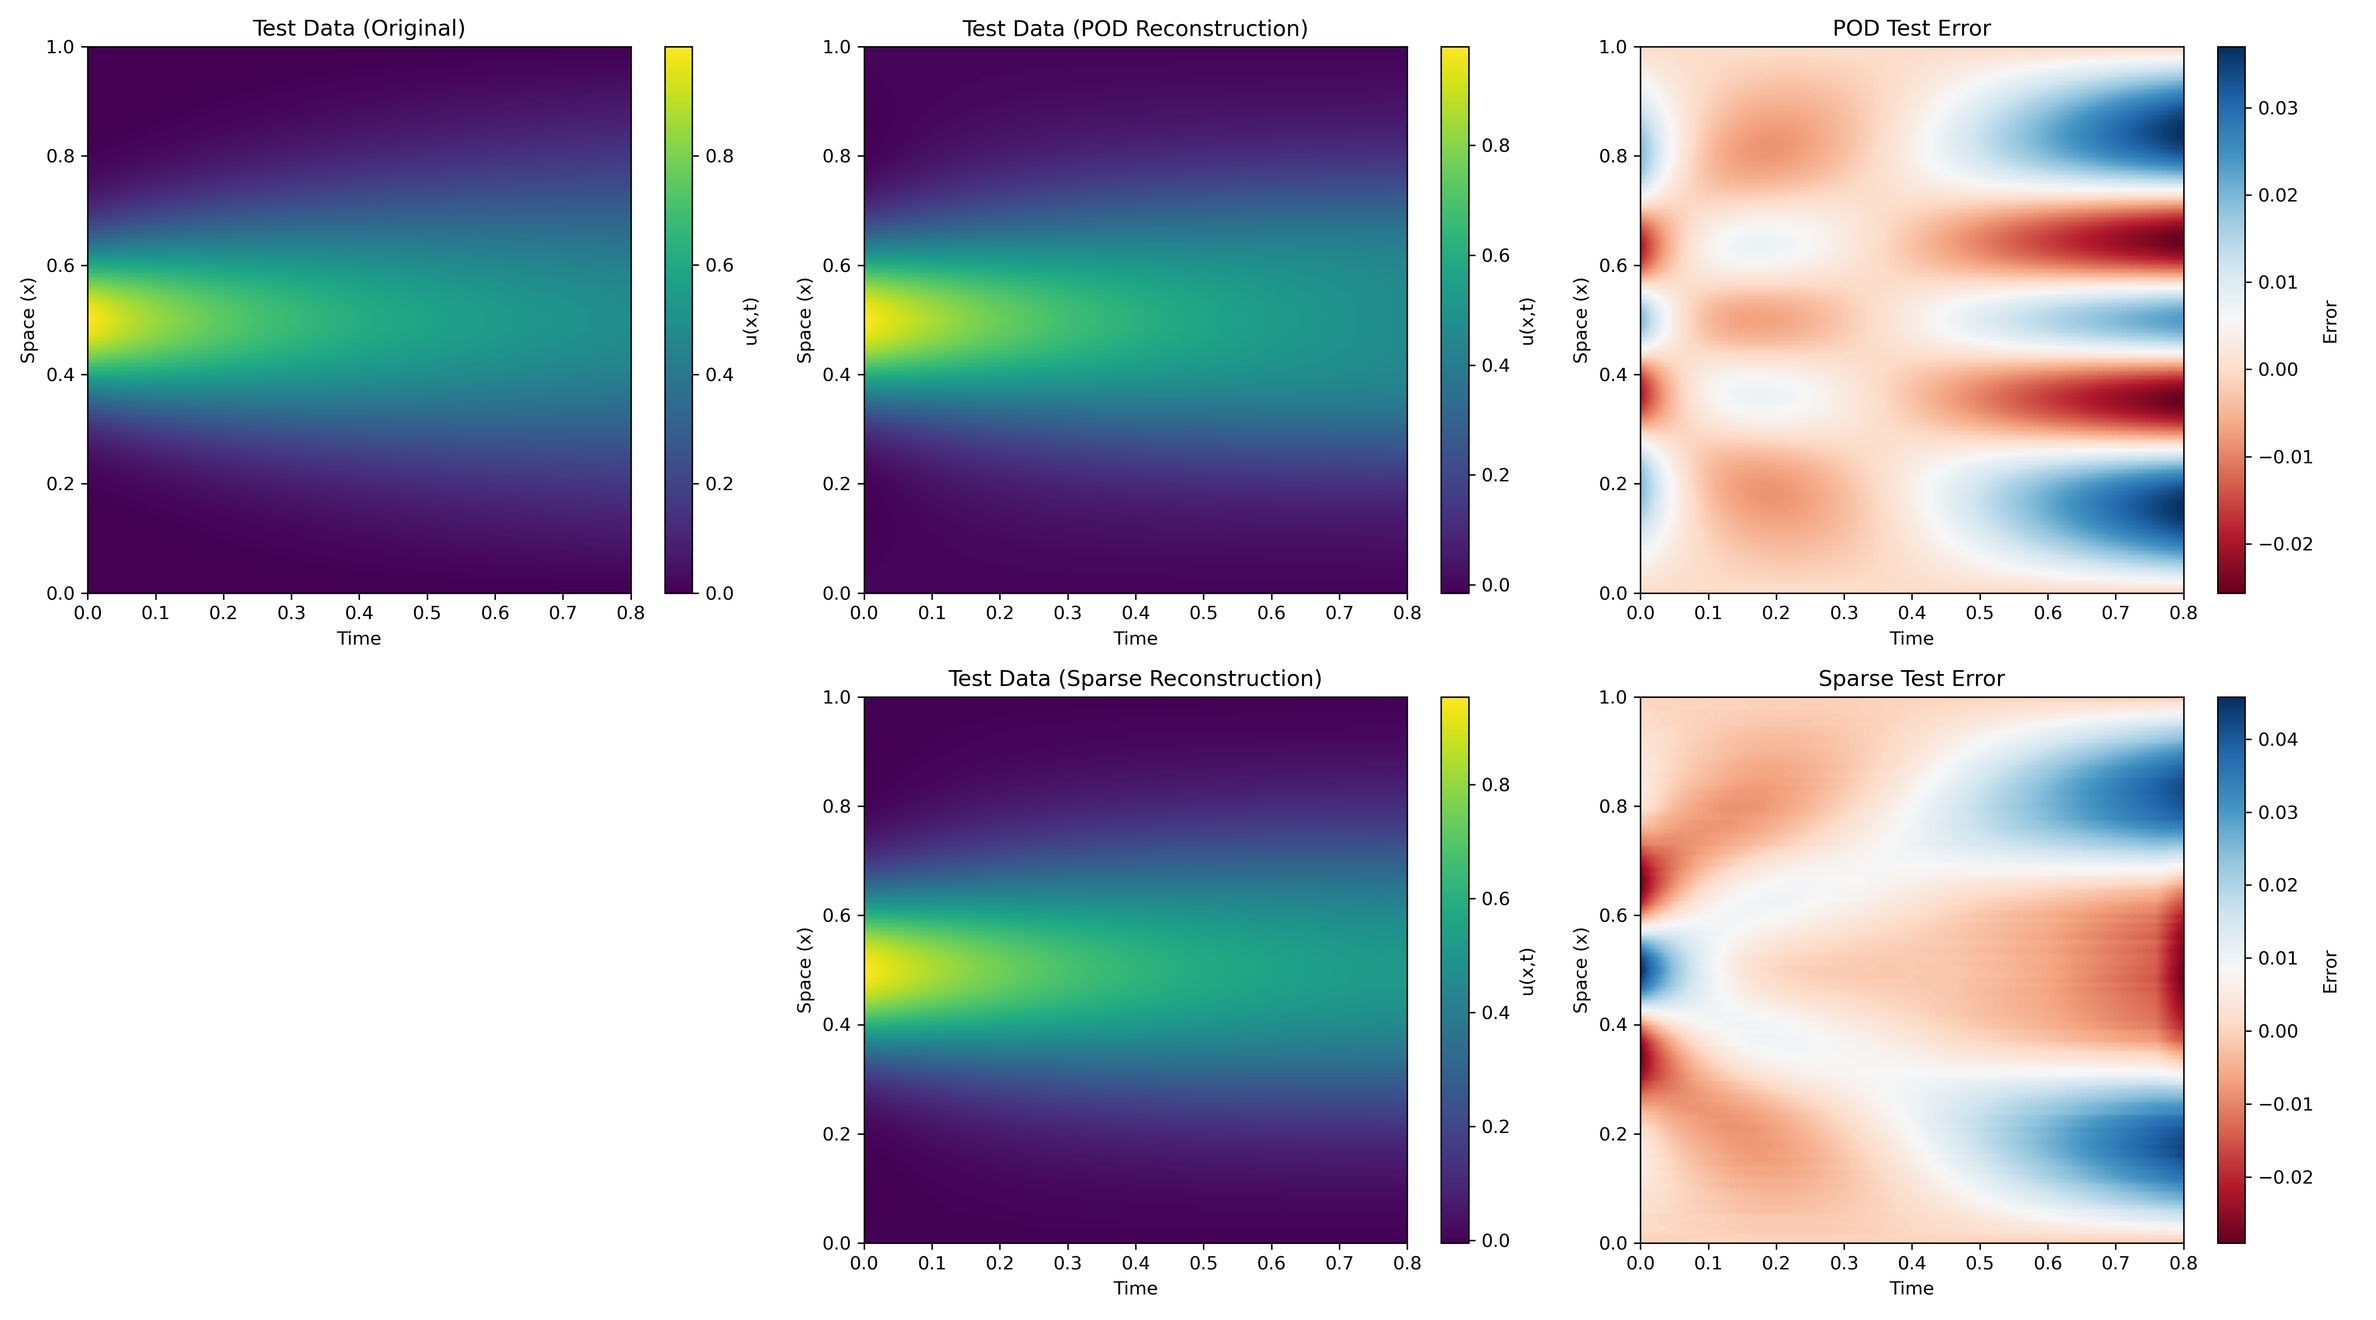
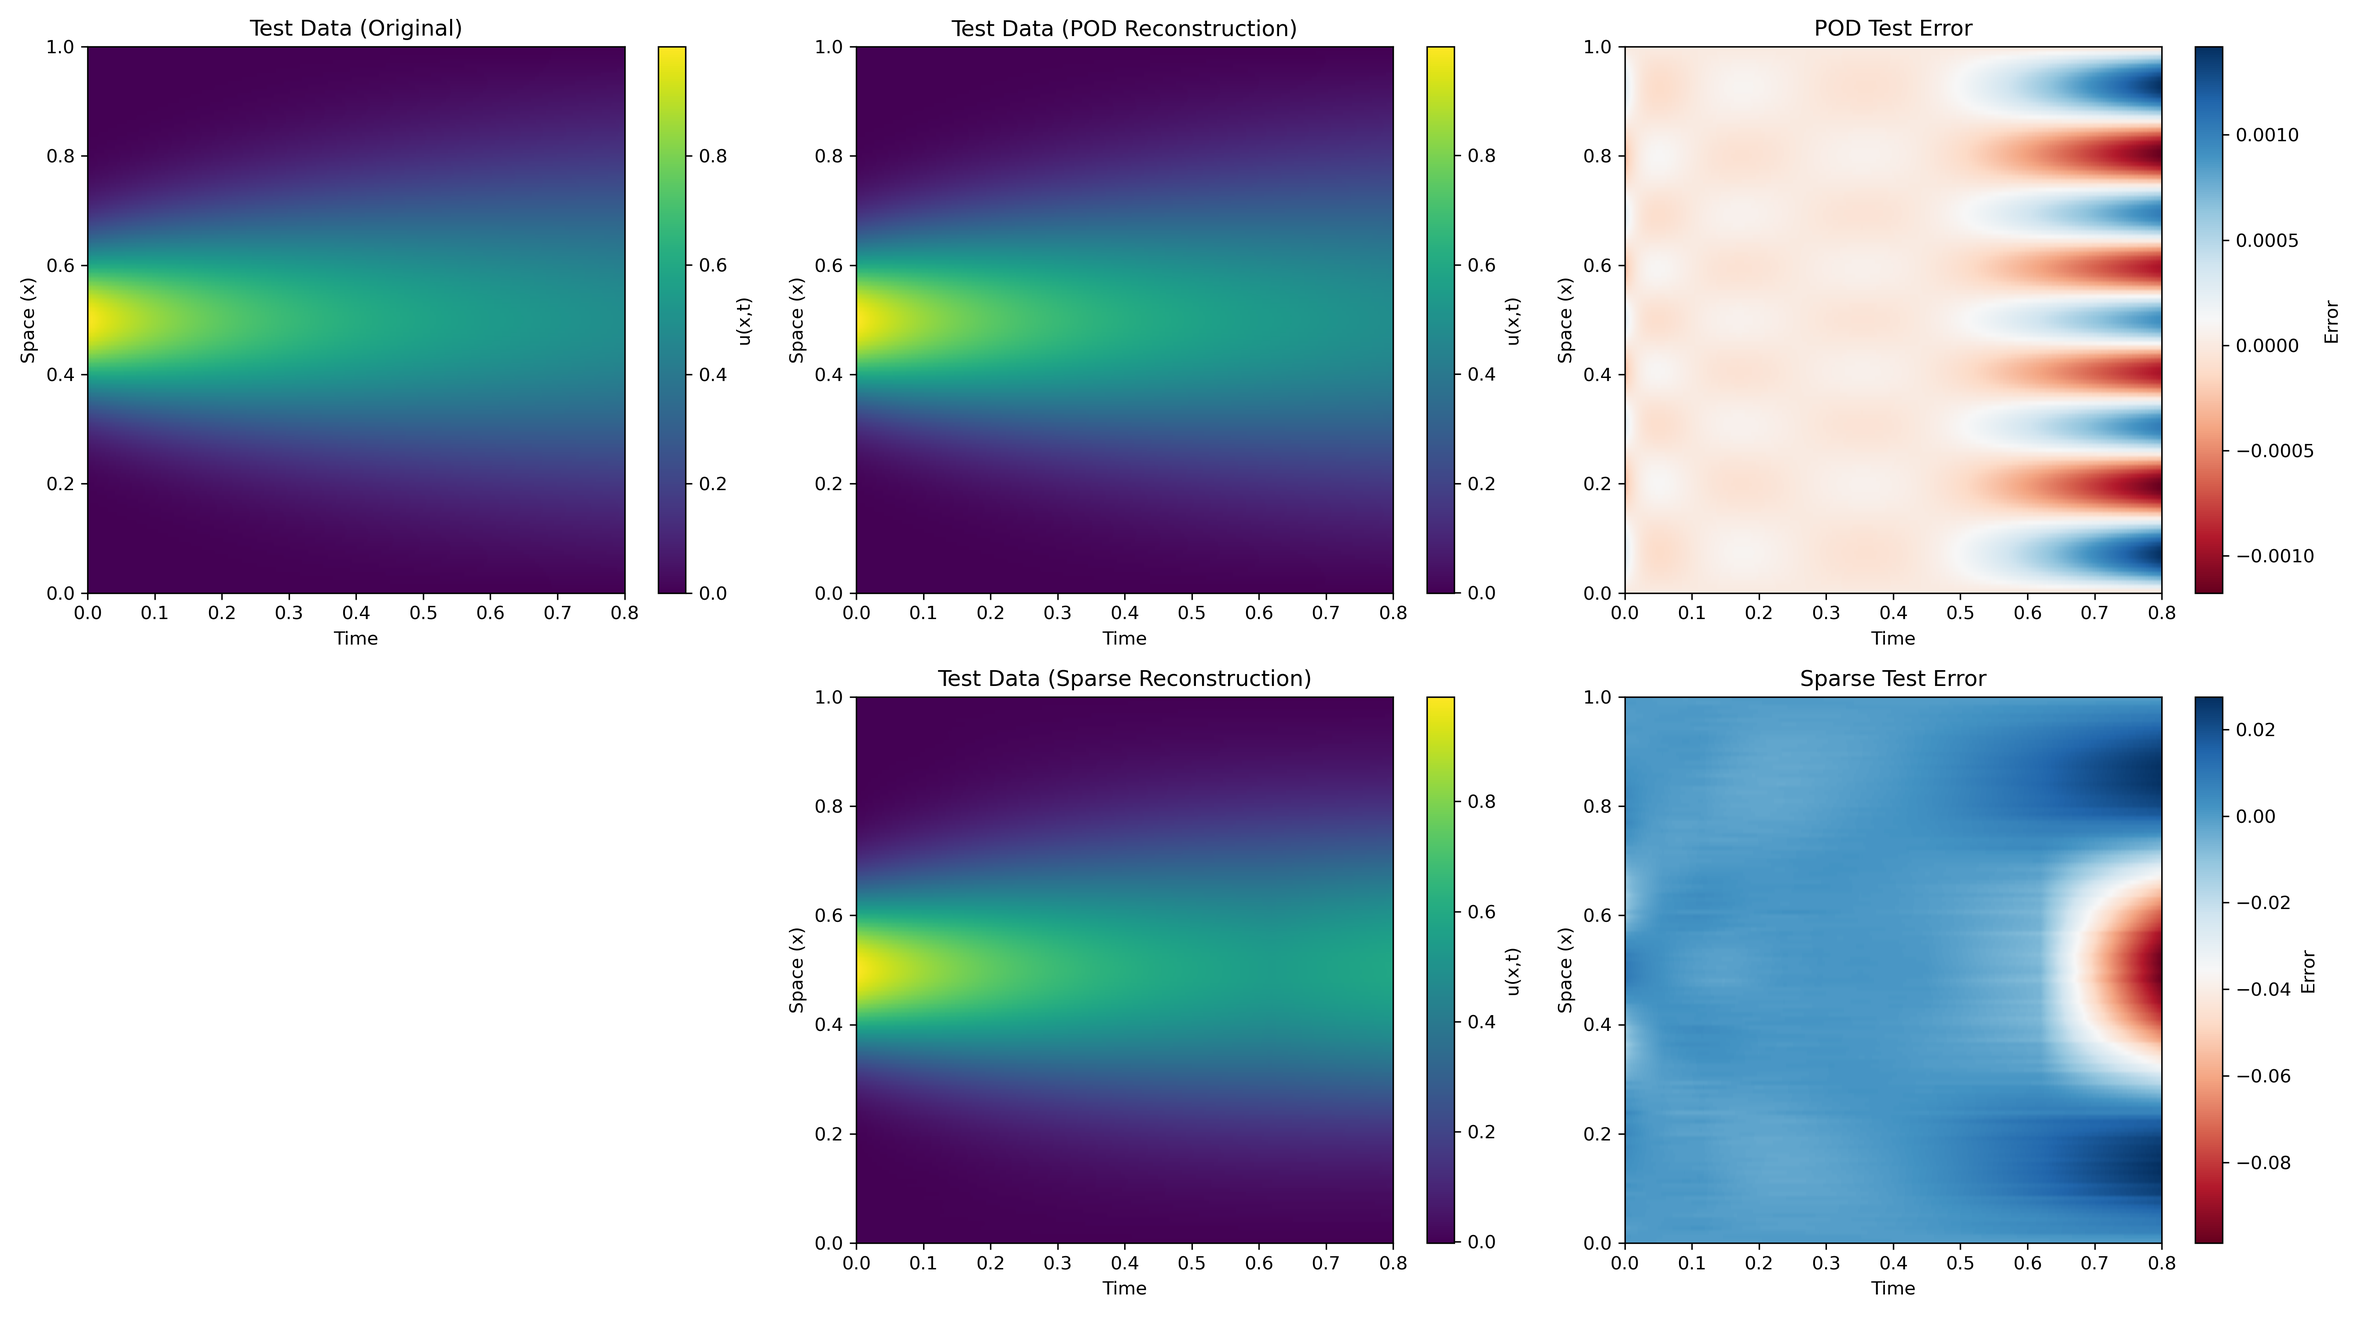
add CNN option. not working

diff --git a/src/sparsemodesnet/model.py b/src/sparsemodesnet/model.py
@@ -5,6 +5,16 @@ import torch.nn.functional as F
 class SoftplusParameterization(nn.Module):
     def forward(self, X):
         return F.softplus(X)
+    
+# Helper class for reshaping in sequential
+class Reshape(nn.Module):
+    def __init__(self, shape):
+        super().__init__()
+        self.shape = shape
+    
+    def forward(self, x):
+        return x.view(self.shape)
+    
 class SparseModesNet(nn.Module):
     """
     LassoNet in POD-space (R^s → R^s), but loss computed in original x-space:
@@ -15,39 +25,121 @@ class SparseModesNet(nn.Module):
       Minimize ∑ ||x_i - x_hat_i||^2 + λ ||ω||_1, subject to the hierarchy constraint:
         ||W^(1)[j,:]||_∞ ≤ M |ω_j| for all j ∈ {0..s-1}.
     """
-
+    
     def __init__(self, pod_basis: torch.Tensor, input_dim: int, 
-                 hidden_units: list, M: float = 5.0, lam: float = 1e-3):
+                hidden_units: list, M: float = 5.0, lam: float = 1e-3, 
+                network_type: str = 'feedforward', **conv_kwargs):
         """
         pod_basis:  U_s ∈ R^{d x s}  (torch.Tensor)
         input_dim:  s (POD dimension)
         hidden_units:  e.g. [s, s(s+1)/2, s(s+1)(s+2)/6] (quadratic, cubic, etc.)
         M: hierarchy multiplier
         lam: ℓ₁ penalty on ω
+        network_type: 'feedforward' or 'convolutional'
+        conv_kwargs: additional arguments for convolutional network
+            - kernel_size: int, default 3
+            - num_channels: list, e.g. [16, 32, 16]
+            - padding: str, default 'same'
         """
         super(SparseModesNet, self).__init__()
 
         self.U_s = pod_basis  # (d, s)
         self.d, self.s = pod_basis.shape
+        self.network_type = network_type
 
         self.M = float(M)
         self.lam = float(lam)
 
         # Skip‐weights ω ∈ R^s
-        # self.omega = nn.Parameter(torch.ones(self.s))
         self.omega_raw = nn.Parameter(torch.ones(self.s) * 0.1)
         
         # Softplus parameterization to ensure omega > 0
         self.softplus = SoftplusParameterization()
 
-        # Build f_NN in POD-space (can't have biases to kill zero features)
+        # Build f_NN in POD-space based on network type
+        if network_type == 'feedforward':
+            self.net = self._build_feedforward_network(hidden_units)
+        elif network_type == 'convolutional':
+            self.net = self._build_convolutional_network(hidden_units, **conv_kwargs)
+        else:
+            raise ValueError(f"Unsupported network_type: {network_type}. Use 'feedforward' or 'convolutional'.")
+
+    def _build_feedforward_network(self, hidden_units):
+        """Build standard feedforward network"""
         self.first_layer = nn.Linear(self.s, hidden_units[0], bias=False)
         layers = [self.first_layer, nn.ReLU(inplace=True)]
+        
         for i in range(1, len(hidden_units)):
             layers.append(nn.Linear(hidden_units[i-1], hidden_units[i], bias=False))
             layers.append(nn.ReLU(inplace=True))
+        
         layers.append(nn.Linear(hidden_units[-1], self.s, bias=False))
-        self.net = nn.Sequential(*layers)
+        return nn.Sequential(*layers)
+
+    def _build_convolutional_network(self, hidden_units, kernel_size=3, 
+                                     num_channels=None, padding='same'):
+        """Build 1D convolutional network for POD coefficients"""
+        if num_channels is None:
+            num_channels = [16, 32, 16]  # Default channel progression
+        
+        layers = []
+        
+        # Input projection: (batch, s) -> (batch, channels[0], s)
+        layers.append(nn.Linear(self.s, num_channels[0] * self.s, bias=False))
+        layers.append(Reshape((-1, num_channels[0], self.s)))
+        
+        # Convolutional layers
+        for i in range(len(num_channels) - 1):
+            layers.append(nn.Conv1d(
+                num_channels[i], num_channels[i+1], 
+                kernel_size=kernel_size, 
+                padding=padding, 
+                bias=False
+            ))
+            layers.append(nn.ReLU(inplace=True))
+        
+        # Output projection: (batch, channels[-1], s) -> (batch, s)
+        layers.append(nn.AdaptiveAvgPool1d(1))  # Global average pooling
+        layers.append(nn.Flatten())
+        layers.append(nn.Linear(num_channels[-1], self.s, bias=False))
+        
+        # Store first layer for proximal step
+        self.first_layer = layers[0]  # The input projection layer
+        
+        return nn.Sequential(*layers)
+
+    # def __init__(self, pod_basis: torch.Tensor, input_dim: int, 
+    #              hidden_units: list, M: float = 5.0, lam: float = 1e-3):
+    #     """
+    #     pod_basis:  U_s ∈ R^{d x s}  (torch.Tensor)
+    #     input_dim:  s (POD dimension)
+    #     hidden_units:  e.g. [s, s(s+1)/2, s(s+1)(s+2)/6] (quadratic, cubic, etc.)
+    #     M: hierarchy multiplier
+    #     lam: ℓ₁ penalty on ω
+    #     """
+    #     super(SparseModesNet, self).__init__()
+
+    #     self.U_s = pod_basis  # (d, s)
+    #     self.d, self.s = pod_basis.shape
+
+    #     self.M = float(M)
+    #     self.lam = float(lam)
+
+    #     # Skip‐weights ω ∈ R^s
+    #     # self.omega = nn.Parameter(torch.ones(self.s))
+    #     self.omega_raw = nn.Parameter(torch.ones(self.s) * 0.1)
+        
+    #     # Softplus parameterization to ensure omega > 0
+    #     self.softplus = SoftplusParameterization()
+
+    #     # Build f_NN in POD-space (can't have biases to kill zero features)
+    #     self.first_layer = nn.Linear(self.s, hidden_units[0], bias=False)
+    #     layers = [self.first_layer, nn.ReLU(inplace=True)]
+    #     for i in range(1, len(hidden_units)):
+    #         layers.append(nn.Linear(hidden_units[i-1], hidden_units[i], bias=False))
+    #         layers.append(nn.ReLU(inplace=True))
+    #     layers.append(nn.Linear(hidden_units[-1], self.s, bias=False))
+    #     self.net = nn.Sequential(*layers)
         
     @property
     def omega(self):

diff --git a/src/sparsemodesnet/driver.py b/src/sparsemodesnet/driver.py
@@ -24,10 +24,11 @@ def run_sparsemodesnet(X_np: np.ndarray,
                        max_iters: int,
                        batch_size: int,
                        optimizer: str,
-                       device: str):
+                       device: str,
+                       network_type: str = 'feedforward',  # Add this
+                       **conv_kwargs):  # Add this
     """
-    The original warm-start λ→(1+ε)λ routine that stops when ω=0.
-    Exactly the same code we provided earlier in step (3).
+    The original warm-start λ→(1+ε)λ routine with support for convolutional networks.
     """
     # print(f"\n=== LassoNet-POD (path) on {label}: d={X_np.shape[0]}, n={X_np.shape[1]}, s={s} ===")
 
@@ -55,7 +56,9 @@ def run_sparsemodesnet(X_np: np.ndarray,
             input_dim    = s,
             hidden_units = hidden_units,
             M            = M,
-            lam          = lam
+            lam          = lam,
+            network_type = network_type,  # Add this
+            **conv_kwargs  # Add this
         ).to(device)
         
         history = train_sparsemodesnet(model, dataloader_full, B, lr, optimizer, device)
@@ -105,6 +108,8 @@ def run_sparsemodesnet_with_lambda_selection(
     optimizer: str = 'Adam',
     nonzero_thresh: float = 1e-6,
     r_max: int = None, 
+    # Network architecture options
+    network_type: str = 'feedforward',  # Add this parameter
     # for “path”:
     lam0: float = 1e-6,
     epsilon: float = 0.1,
@@ -124,7 +129,8 @@ def run_sparsemodesnet_with_lambda_selection(
     lr: float = 1e-3,
     batch_size: int = 16,
     device: str = 'cpu',
-    label: str = ''):
+    label: str = '',
+    **conv_kwargs):  # Add this parameter for conv network options
     """
     Runs LassoNet-POD-Recon but first picks λ via one of three methods:
       • lambda_method='path'      → warm-start path (the original behavior)
@@ -157,7 +163,9 @@ def run_sparsemodesnet_with_lambda_selection(
             k_folds          = k_folds,
             batch_size       = batch_size,
             optimizer        = optimizer,
-            device           = device
+            device           = device,
+            network_type     = network_type,  # Add this
+            **conv_kwargs  # Add this
         )
         d, n_samples = X_np.shape
         lam_star, r_star, err_star = pick_aic(path_history, n_samples, d)
@@ -179,7 +187,9 @@ def run_sparsemodesnet_with_lambda_selection(
             final_epochs     = final_epochs_ss if final_epochs_ss is not None else num_epochs_ss,
             batch_size       = batch_size,
             optimizer        = optimizer,
-            device           = device
+            device           = device,
+            network_type     = network_type,  # Add this
+            **conv_kwargs  # Add this
         )
         print(f"[SS] Picked λ={lam_star:.3e}, S_stable={S_stable}")
         freq_table = {'path_history': path_history, 'stable_modes': S_stable, 'freqs': freqs}
@@ -202,6 +212,8 @@ def run_sparsemodesnet_with_lambda_selection(
             batch_size     = batch_size,
             optimizer      = optimizer,
             device         = device,
+            network_type   = network_type,  # Add this
+            **conv_kwargs  # Add this
         )
         lam_star, r_star, err_star = pick_elbow(path_history)
         print(f"[Path-Elbow] Picked λ={lam_star:.3e}, r={r_star}, err={err_star:.6e}")
@@ -240,7 +252,9 @@ def run_sparsemodesnet_with_lambda_selection(
         input_dim    = s,
         hidden_units = hidden_units,
         M            = M,
-        lam          = float(lam_star)
+        lam          = float(lam_star),
+        network_type = network_type,  # Add this
+        **conv_kwargs  # Add this
     ).to(device)
 
     history_full = train_sparsemodesnet(

diff --git a/src/sparsemodesnet/select_lambda/stability.py b/src/sparsemodesnet/select_lambda/stability.py
@@ -20,14 +20,11 @@ def select_lambda_stability(X_np: np.ndarray,
                             final_epochs: int,
                             batch_size: int,
                             optimizer: str,
-                            device: str):
+                            device: str,
+                            network_type: str = 'feedforward',  # Add this parameter
+                            **conv_kwargs):  # Add this parameter
     """
-    Canonical stability-selection:
-        1) subsample B times for each λ, accumulate counts
-        2) compute Π_j(λ), Π_j^max and form S_stable
-        3) pick λ* = largest λ whose full-data S(λ) ⊇ S_stable
-        4) retrain final model at λ* on full data
-    Returns: model_final, lambda_star, S_stable, freqs
+    Canonical stability-selection with support for convolutional networks
     """
     print("\n=== Stability Selection λ-Selection ===")
     d, n = X_np.shape
@@ -40,7 +37,7 @@ def select_lambda_stability(X_np: np.ndarray,
     # 1) subsample loop
     cutoff_idx = 0
     for i, lam in enumerate(lambdas):
-        print(f" SS testing λ = {lam:.3e} ...")
+        print(f" SS testing λ = {lam:.3e}. Currently {i}/{m} ...")
         for _ in range(B):
             subsamp = np.random.choice(n, size=n//2, replace=False)
             ds_sub = PODReconDataset(Z_np=Z_np[:, subsamp], X_np=X_np[:, subsamp])
@@ -51,7 +48,9 @@ def select_lambda_stability(X_np: np.ndarray,
                 input_dim    = s,
                 hidden_units = hidden_units,
                 M            = M,
-                lam          = float(lam)
+                lam          = float(lam),
+                network_type = network_type,  # Add this
+                **conv_kwargs  # Add this
             ).to(device)
             train_sparsemodesnet(model_ss, dl_sub, num_epochs_ss, lr, optimizer, device)
 
@@ -89,7 +88,7 @@ def select_lambda_stability(X_np: np.ndarray,
     
     # for i, lam in enumerate(reversed(lambdas)):  # assuming lambdas are sorted ascending
     # Start from the lambda at cutoff_idx, going in reverse order
-    for i in range(len(lambdas) - 1 - cutoff_idx, -1, -1):
+    for i in range(max(cutoff_idx, m-1), 0, -1):
         lam = lambdas[i]
         
         print(f"  Testing λ = {lam:.3e} on full data ...")
@@ -98,7 +97,9 @@ def select_lambda_stability(X_np: np.ndarray,
             input_dim    = s,
             hidden_units = hidden_units,
             M            = M,
-            lam          = float(lam)
+            lam          = float(lam),
+            network_type = network_type,  # Add this
+            **conv_kwargs  # Add this
         ).to(device)
         train_sparsemodesnet(model_full, dl_full,
                              num_epochs_ss if final_epochs is None else final_epochs,

diff --git a/src/sparsemodesnet/select_lambda/cv.py b/src/sparsemodesnet/select_lambda/cv.py
@@ -19,9 +19,11 @@ def select_lambda_cv(X_np: np.ndarray,
                      k_folds: int,
                      batch_size: int,
                      optimizer: str,
-                     device: str):
+                     device: str,
+                     network_type: str = 'feedforward',  # Add this parameter
+                     **conv_kwargs):  # Add this parameter
     """
-    Performs k-fold CV over a grid of λ values. Returns the λ with lowest average val-MSE.
+    Performs k-fold CV over a grid of λ values with support for convolutional networks.
     """
     print("\n=== Cross-Validation λ-Selection ===")
     d, n = X_np.shape
@@ -58,7 +60,9 @@ def select_lambda_cv(X_np: np.ndarray,
                 input_dim    = s,
                 hidden_units = hidden_units,
                 M            = M,
-                lam          = float(lam)
+                lam          = float(lam),
+                network_type = network_type,  # Add this
+                **conv_kwargs  # Add this
             ).to(device)
 
             # Train for num_epochs_cv
@@ -93,7 +97,9 @@ def select_lambda_cv(X_np: np.ndarray,
             input_dim    = s,
             hidden_units = hidden_units,
             M            = M,
-            lam          = float(lam)
+            lam          = float(lam),
+            network_type = network_type,  # Add this
+            **conv_kwargs  # Add this
         ).to(device)
         train_sparsemodesnet(model_full, dl_full, final_full_epochs, lr, optimizer, device)
         with torch.no_grad():

diff --git a/experiments/heat1d.py b/experiments/heat1d.py
@@ -26,8 +26,8 @@ if __name__ == "__main__":
     lambda_method = 'stability'  # 'path', 'cv', or 'stability'
     
     # Common hyperparameters
-    # hidden_units_heat = [128, 8256]
-    hidden_units_heat = [20, 120, 400]
+    hidden_units_heat = [128, 8256]
+    # hidden_units_heat = [20, 120, 400]
 
     # Parameter‐grid for CV or SS (you can customize)
     lambdas_cv = np.logspace(-2.5, -1.2, 10)  
@@ -64,6 +64,10 @@ if __name__ == "__main__":
         hidden_units    = hidden_units_heat,
         M               = 5.0,
         lambda_method   = lambda_method,
+        network_type    = 'convolutional',    # Specify network type
+        kernel_size     = 8,                  # Conv-specific parameters
+        num_channels    = [64, 128, 64],      # Conv-specific parameters
+        padding         = 'same',             # Conv-specific parameters
         optimizer       = 'Adam',
         nonzero_thresh  = 1e-6,
         r_max           = 10,           # max modes for constraint stopping
